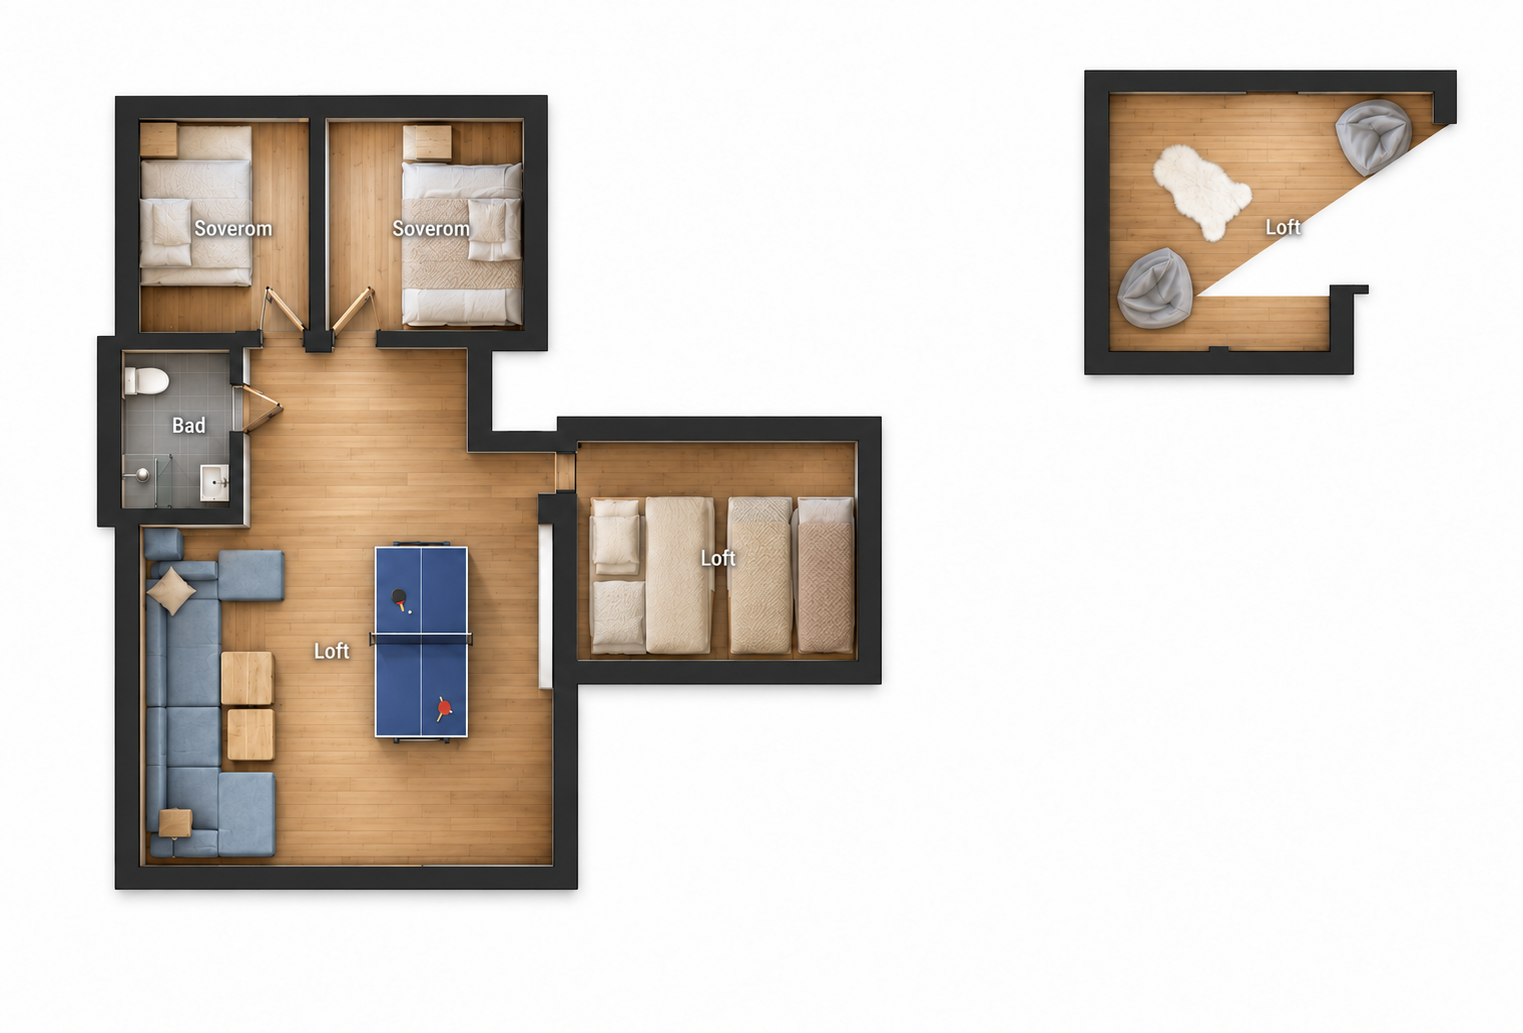
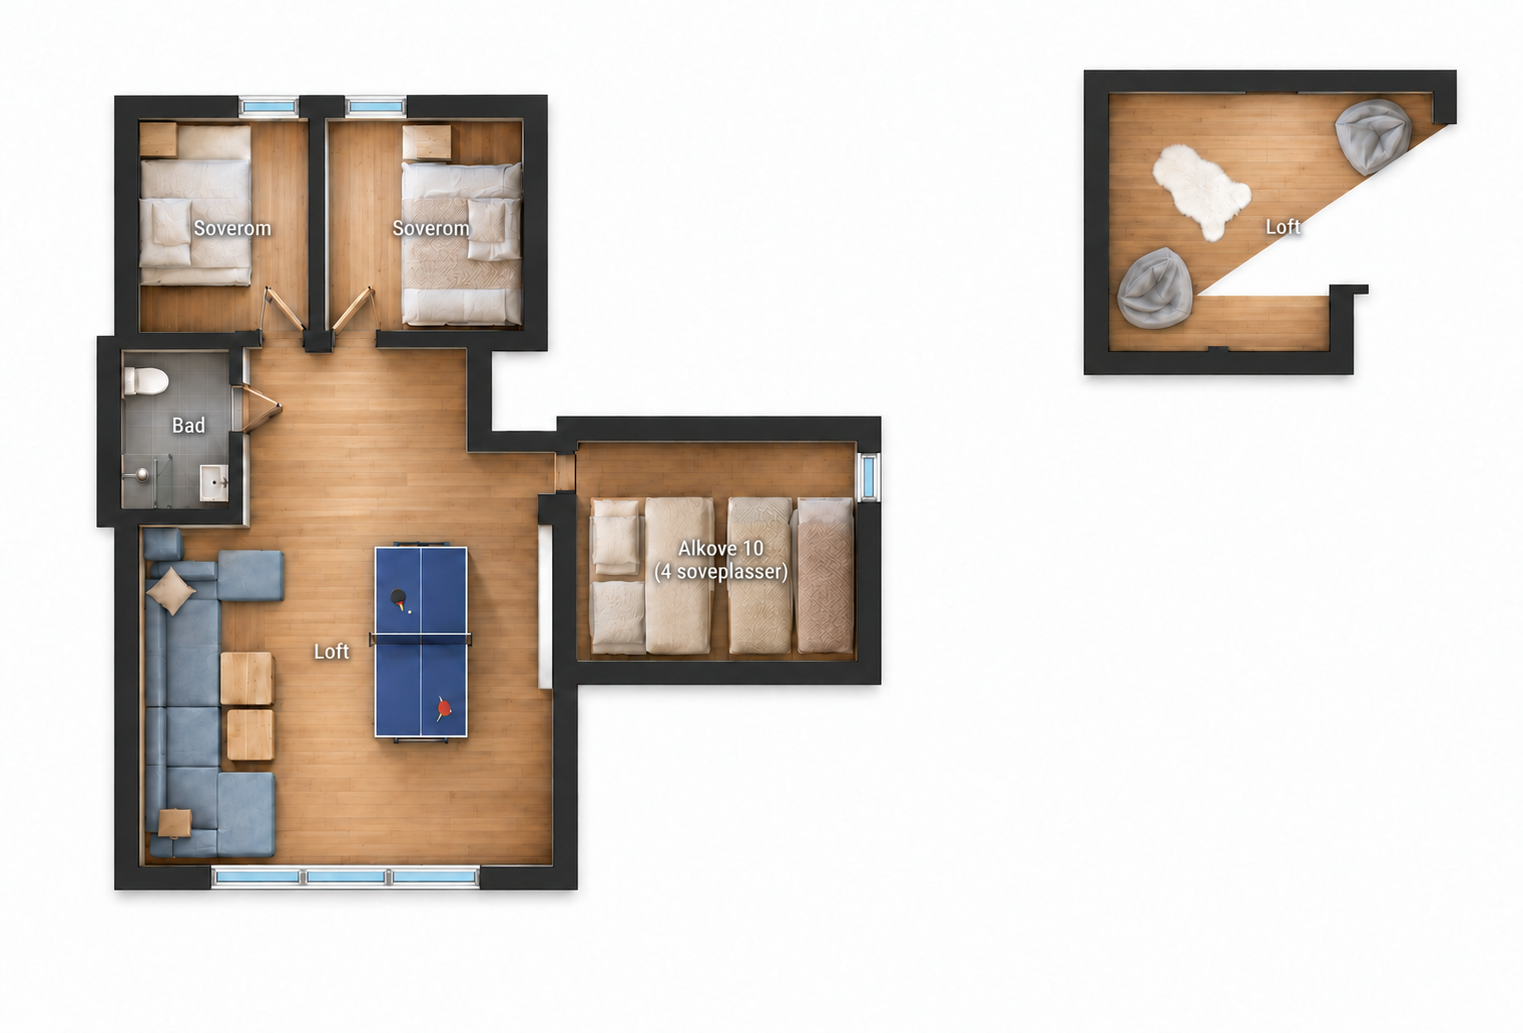
Add marked loft windows and label Alcove 10 sleeping places

diff --git a/docs/floor-plans.md b/docs/floor-plans.md
@@ -1,5 +1,32 @@
 # Three floor plans
 
+## Additional alcove window and room label, 29 October 2026
+
+The owner marked an additional window on the upper part of the sleeping alcove's
+right exterior wall in `codex-clipboard-326ad7a4-fcdf-4bdd-a4cb-d23db52a0cc6.png`.
+Built-in imagegen added that window and replaced the alcove's Loft label with
+`Alkove 10 (4 soveplasser)`, while retaining the three earlier window groups.
+The updated complete plan is saved at `public/images/floor-plan-loft.png`.
+
+Final edit prompt:
+
+Use case: precise-object-edit and text-localization. IMAGE1 is the current complete loft floor plan edit target. IMAGE2 is the owner's red-marked location reference only. Make ONLY TWO changes: (1) Add ONE small window in the RIGHT EXTERIOR VERTICAL WALL of the projecting sleeping alcove at middle right of the main left plan volume, near the UPPER end of that wall as marked red in IMAGE2 (roughly x855–880, y455–505 in IMAGE1). The window must be on the vertical RIGHT wall, not the top horizontal wall. Match existing slim white/light grey frames and pale blue glazing. (2) Replace ONLY the word 'Loft' inside that projecting alcove containing the four sleeping places with the exact readable dark/white outlined label 'Alkove 10' on line one and '(4 soveplasser)' on line two. Use small clean sans serif matching existing room labels, centered so bed shapes remain legible. Do not change 'Loft' in the living/table-tennis room or the isolated upper-right lounge. CRITICAL KEEP ALL THREE EXISTING WINDOW GROUPS: two windows on top bedroom walls and wide three-pane window along bottom loft living room wall. Preserve entire image, full framing, scale and dimensions, all wall outlines, doors, beds, bathroom fixtures, sofa, table tennis, upper-right isolated lounge, triangle white gap, all other text, colors and materials. Do not add/remove any other features or crop anything. Remove reference red circle; it is only a guide. Output the full complete plan with only this extra small right-wall window and this alcove label change.
+
+## Owner window correction, 29 October 2026
+
+Updated `public/images/floor-plan-loft.png` using built-in imagegen and the
+owner's red-marked reference `codex-clipboard-34d4596e-2a4a-43b7-9304-5a1ff4892c8b.png`.
+Added two separate windows in the top bedroom exterior walls near the central
+partition, plus one broad three-pane window in the bottom loft living-room wall.
+The full plan and isolated upper-right lounge are retained. The previous image
+is recoverable from Git. No API/CLI fallback was used.
+
+Final edit prompt:
+
+Use case: precise-object-edit. IMAGE1 is the full loft floor-plan image to edit. IMAGE2 is the owner's cropped red-marked location reference ONLY. Add windows ONLY at the THREE indicated positions. (1) In the TOP exterior wall of the LEFT top bedroom, close to the central bedroom dividing wall, roughly x245–305 at y95–120 in IMAGE1. (2) In the TOP exterior wall of the RIGHT top bedroom, close to the central dividing wall on that room's left side, roughly x335–400 at y95–120. These are TWO SEPARATE windows, with the solid central partition between. (3) A broad horizontal glazed window assembly in the BOTTOM exterior wall of the long LEFT loft living room, roughly x210–495 at y865–890 in IMAGE1. Use realistic slim white/light-grey frames and subtle pale blue glass in top-down architectural cutaway style, integrated into those wall thicknesses. Bottom broad glazing may have vertical mullions, keep all panes inside that single marked wide opening. VERY IMPORTANT: preserve the entire complete IMAGE1 including the separate upper-right lounge exactly as is. Do not crop, zoom, resize the canvas, change plan scale, repaint floors, move walls or doors, add/remove furniture, change beds, change bathroom fixtures, change text, change rug, change triangle gap, add any other windows or alter any other details. Keep original image dimensions and framing. IMAGE2 red marks are guides only and must NOT appear in output. The only intended differences from IMAGE1 are the two top bedroom windows and one bottom wide window.
+
+## Initial three-floor implementation
+
 Shown directly below the introduction on `/3d-tour`, before Matterport.
 `FloorPlans.tsx` has three floor buttons, starts on the main floor, shows the
 whole image with `object-fit: contain`, and links to the full original-size PNG.
